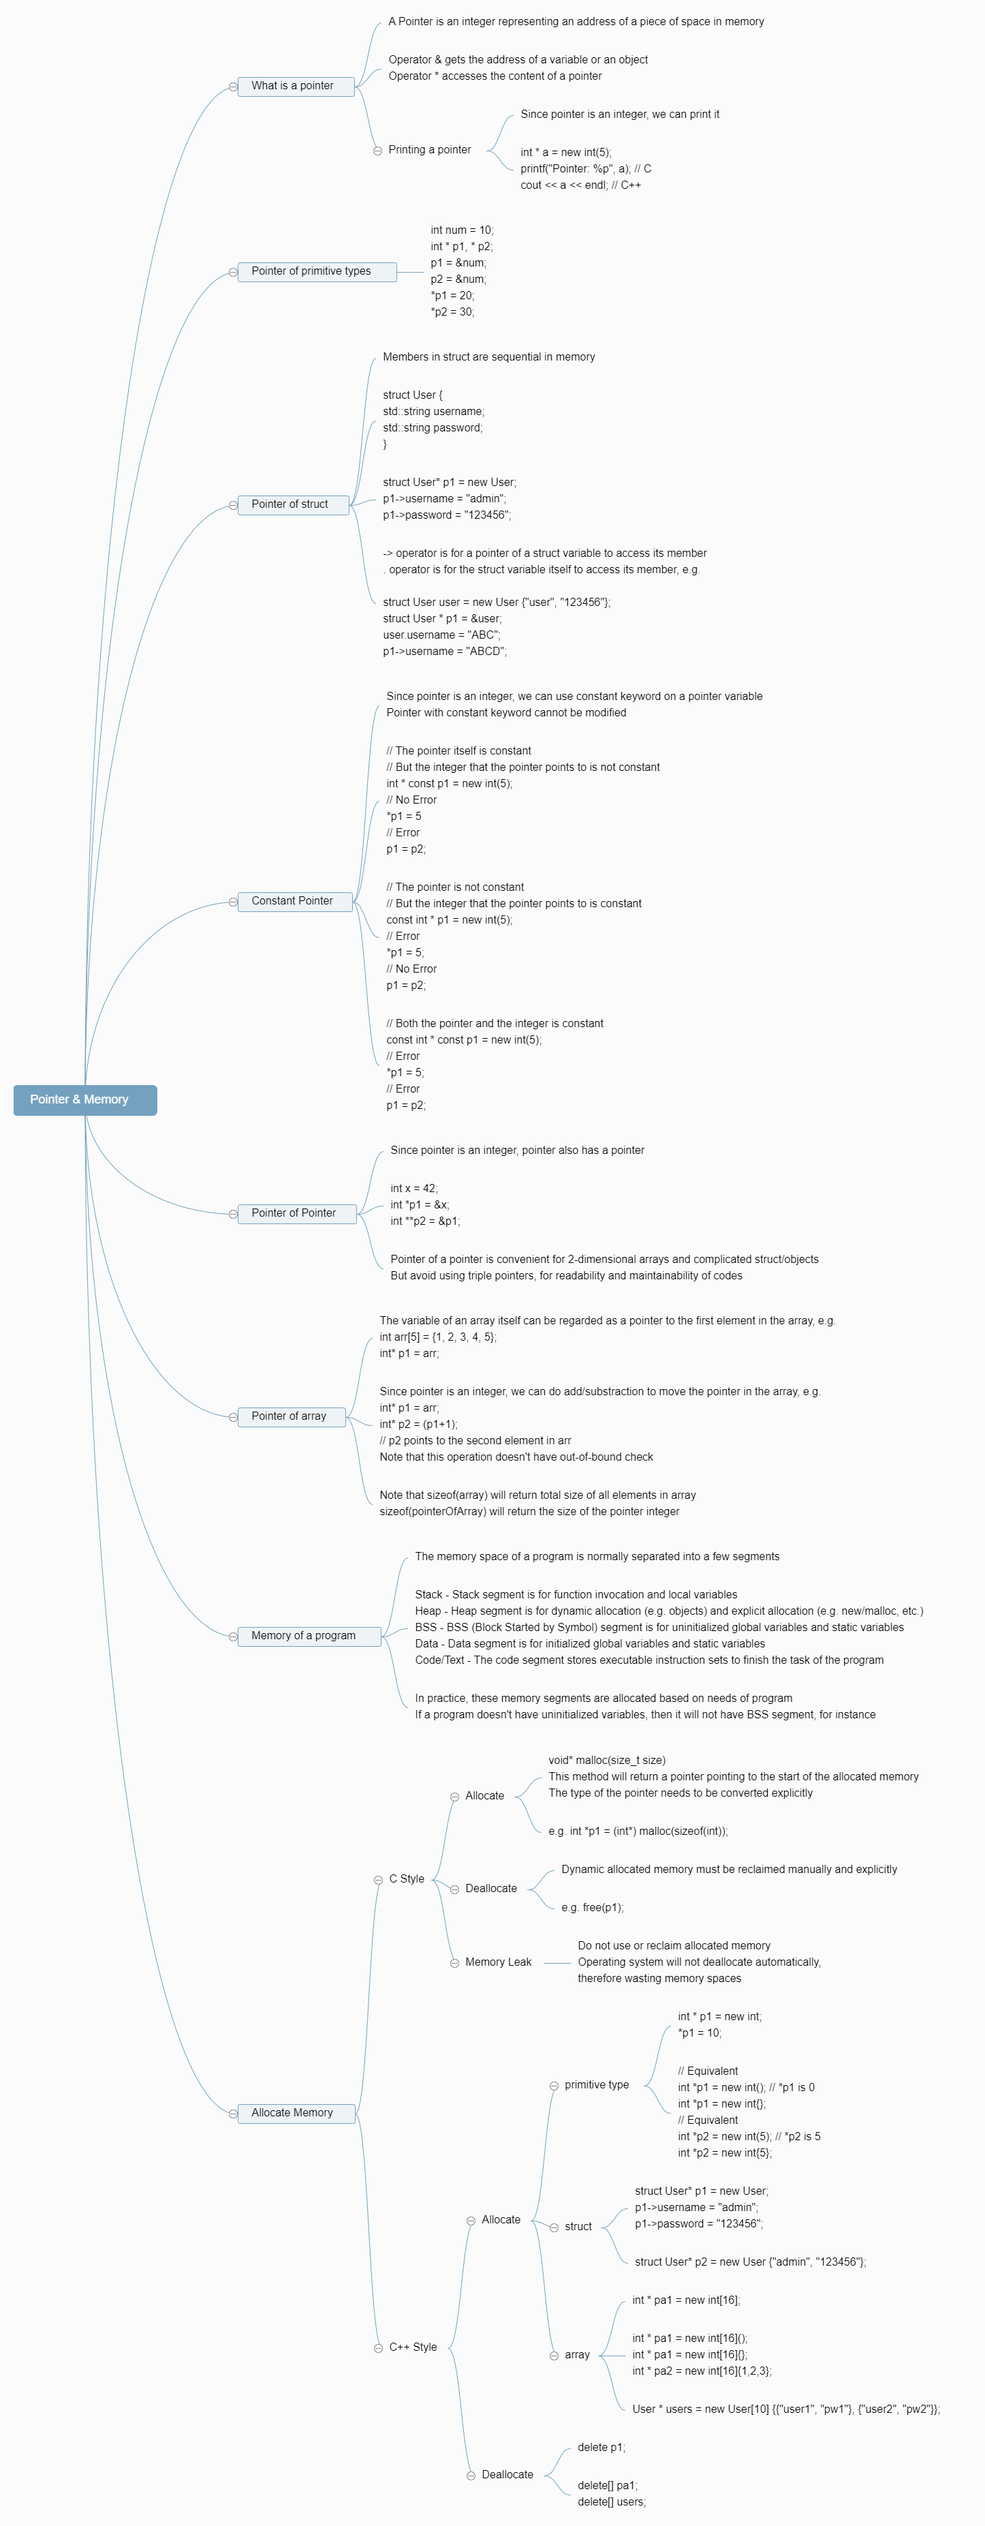
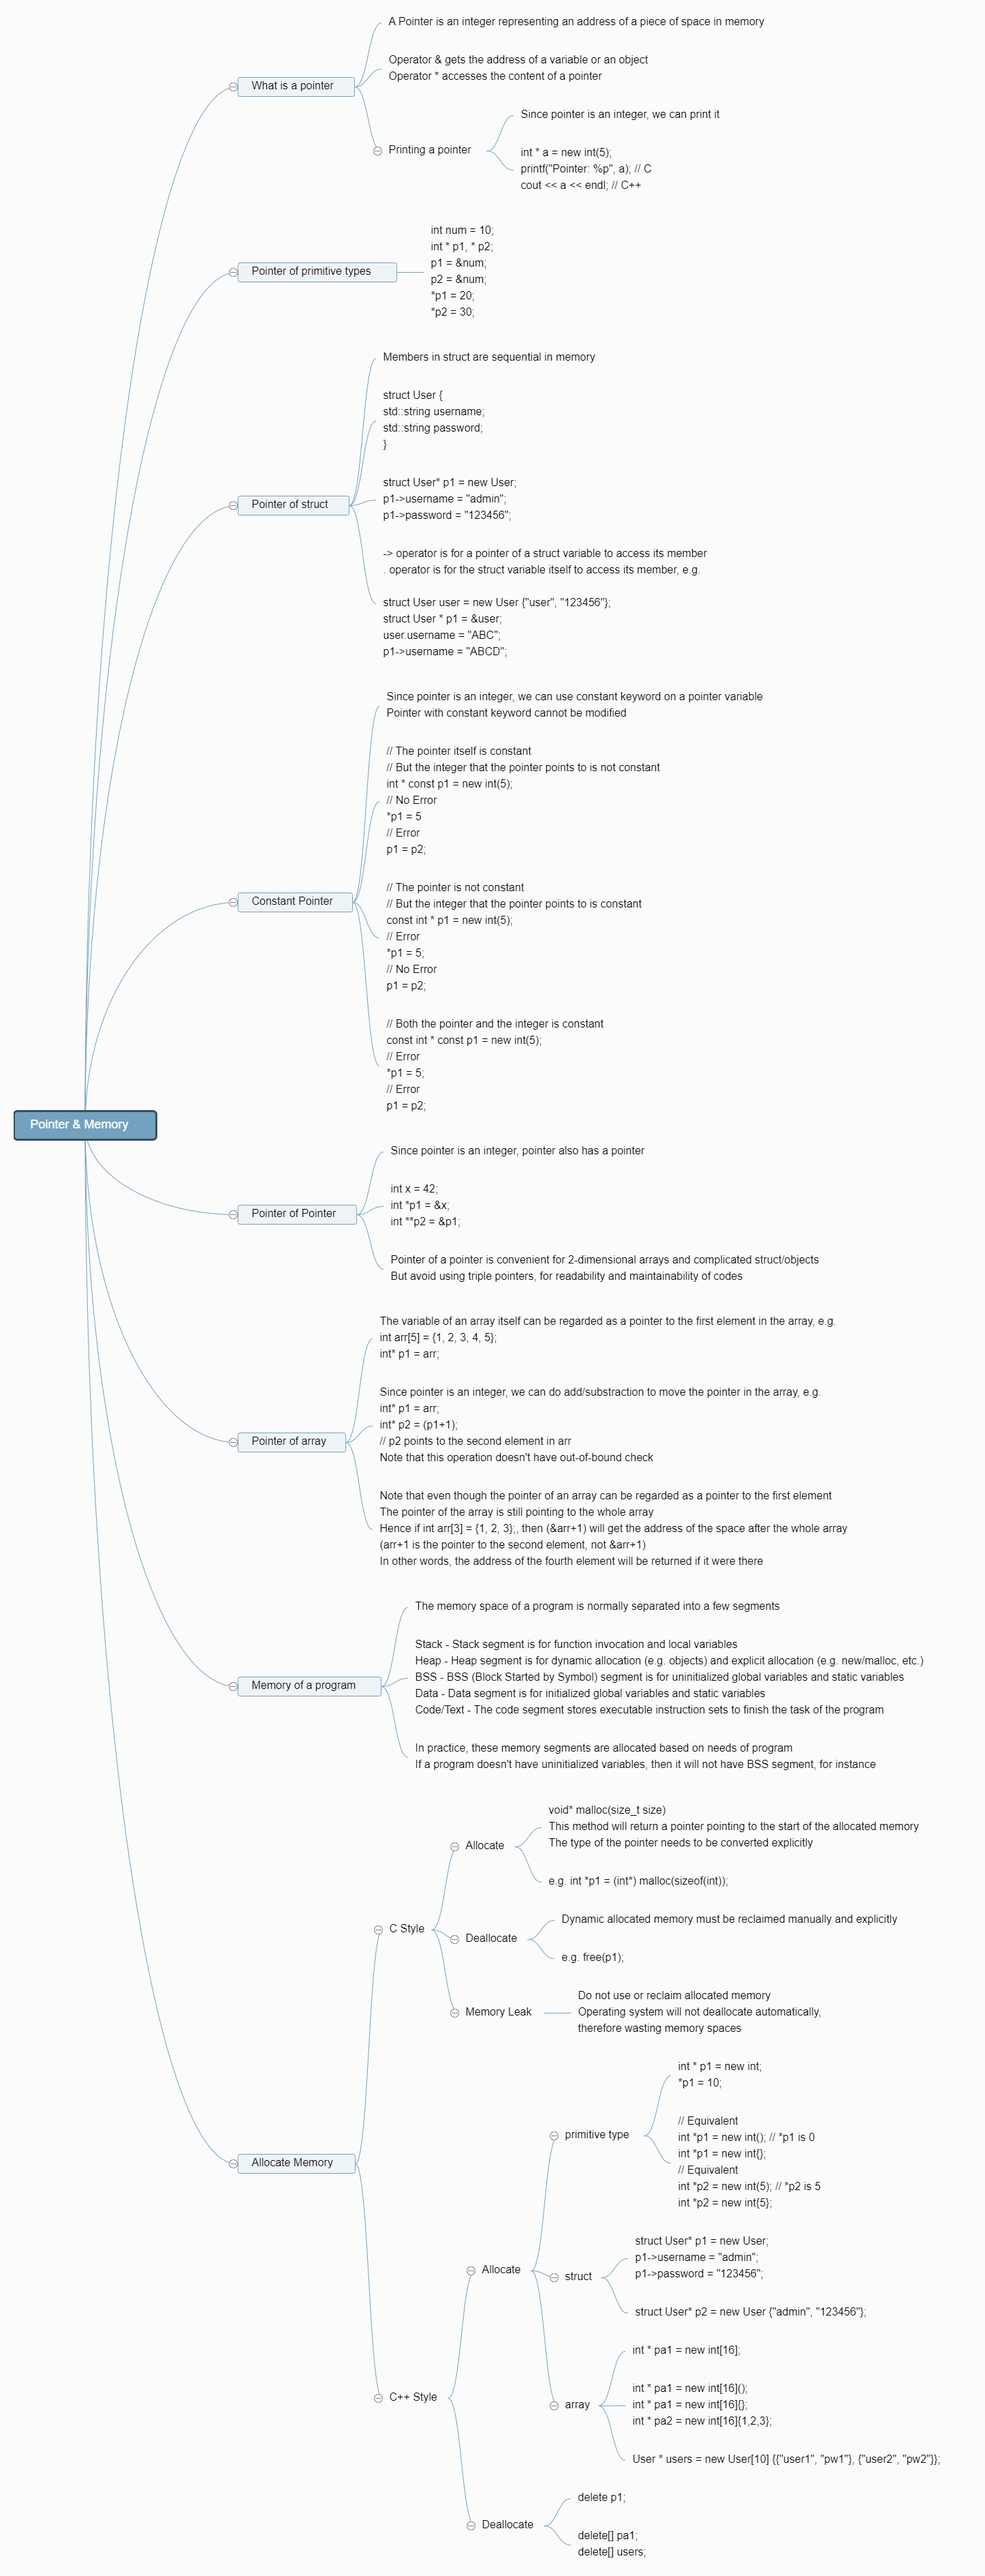
Finish content of week 5

diff --git a/Programming-Languages/C++/codes/SJSU-CS205/week5/lab5-3/main.cpp b/Programming-Languages/C++/codes/SJSU-CS205/week5/lab5-3/main.cpp
@@ -2,18 +2,43 @@
 using namespace std;
 
 int main() {
+    /**
+     * a is actually
+     * [[1, 3, 5, 7],
+     *  [9, 11, 13, 15],
+     *  [17, 19, 0, 0]]
+    */
     int a[][4]={1,3,5,7,9,11,13,15,17,19}; 
+    // Add/Substraction on pointer of 2-dim array will move on the first dimension
+    // a+1 is the pointer to the second row/subarray in a ([9, 11, 13, 15])
+    // *(a+1) gets the actual array value with the pointer
+    // And since an array itself can be used as a pointer, it can be used to assign a pointer variable
+    // Right now p points to the first element in the second subarray of a (namely 9)
     int *p=*(a+1);
+    // Now p points to the fourth element in the second subarray of a (15)
     p += 3;
+    // Here it retrieve the value that p points to (15) and do a self-increment
+    // p points to the next element in the array, which goes to the first element in the third subarray (17)
+    // 2-dimension arrays are still stored as 1-dimension array in memory
+    // So pointers can move across the second dimension
     cout << "*p++ = " << *p++ << ",*p = " << *p << endl; 
 
+    // pc is a pointer on a constant string
     const char *pc = "Welcome to programming.", *r;
     long *q = (long *)pc;
-    q++;
+    // Since long is at least 4-byte long, and char is 1-byte long
+    // So when q does self-increment, it moves 4 bytes forward
+    q++;           
+    // When it is converted back to char pointer
+    // 4 characters are skipped from the start
     r = (char *)q;
     cout << r << endl;
 
+    // m is an int, which is 4 byte long
     unsigned int m = 0x3E56AF67;
+    // short is 2 byte long
+    // So when the pointer to m is converted to short, only the smaller half is saved
+    // Since my system is little endian
     unsigned short *pm = (unsigned short *) &m;
     cout << "*pm = " << hex << *pm << endl;
     

diff --git a/Programming-Languages/C++/codes/SJSU-CS205/week5/lab5-1/main.cpp b/Programming-Languages/C++/codes/SJSU-CS205/week5/lab5-1/main.cpp
@@ -12,11 +12,18 @@ int main() {
     pf = &ff;
     pd = &dd;
 
+    // The length of pointer is determined by operating system
+    // As of now (2023), most computers are 64-bit, which means pointers on these computers have 64 bits (8 bytes)
+    // char type has 8 bits (1 byte), and its pointer has 8 bytes
     cout << "sizeof(cc) = " << sizeof(cc) << ", sizeof(pc) = " << sizeof(pc) << endl;
+    // int type has 32 bits (4 byte), and its pointer has 8 bytes
     cout << "sizeof(ii) = " << sizeof(ii) << ", sizeof(pi) = " << sizeof(pi) << endl;
+    // float type has 32 bits (4 byte), and its pointer has 8 bytes
     cout << "sizeof(ff) = " << sizeof(ff) << ", sizeof(pf) = " << sizeof(pf) << endl;
+    // double type has 64 bits (8 byte), and its pointer has 8 bytes
     cout << "sizeof(dd) = " << sizeof(dd) << ", sizeof(pd) = " << sizeof(pd) << endl;
 
+    // Pointers are hexadecimal integers, and they have addresses too (&p) 
     cout << "&pc = " << &pc << ", pc = " << static_cast <void*>(pc) << ", *pc = " << *pc << endl;
     cout << "&pi = " << &pi << ", pi = " << pi << ", *pi = " << *pi << endl;
     cout << "&pf = " << &pf << ", pf = " << pf << ", *pf = " << *pf << endl;
@@ -25,6 +32,10 @@ int main() {
     const char *msg = "C/C++ programming is fun.";
     const char *copy;
 
+    // msg is the address of the first element in the char array (C)
+    // when running copy = msg;, copy is also assigned with the address of the first element
+    // therefore, copy and msg are two integer variables with same values
+    // But since they are two separate variables, they have different addresses
     copy = msg;
     cout << "msg = " << msg << ",its address is: " << (void*)msg << ", &msg = " << &msg << endl;
     cout << "copy= " << copy << ",its address is: " << (void*)copy << ", &copy= " << &copy << endl;

diff --git a/Programming-Languages/C++/codes/SJSU-CS205/week5/lab5-2/main.cpp b/Programming-Languages/C++/codes/SJSU-CS205/week5/lab5-2/main.cpp
@@ -1,18 +1,33 @@
 #include<stdio.h>
 
-int main() { 
+int main() {
     int a[]={2,4,6,8,10},y=1,*p;
+    // p points to the second element in a array
     p=&a[1];
+    // a points to the first element in the array
     printf("a = %p\np = %p\n",a, p);
 
     for(int i = 0; i < 3; i++) 
-    y += *(p+i);
+        y += *(p+i);
+        // y = y (1) + 4 + 6 + 8 = 19
     printf("y = %d\n\n",y);
 
     int b[5]={1,2,3,4,5};
+    // ptr points to the address after the whole array (or 6th element, if it were there)
     int *ptr=(int*)(&b+1);
-    printf("b = %p\nb+4 = %p\nptr = %p\n",b,b+4,ptr);
-    printf("%d,%d\n",*(b+1),*(ptr-1));
+    // b+4 is the fifth element in the array
+    // ptr is 4 more bytes than the last element of the array
+    // meaning that ptr is pointing to the memory space after b+4
+    // Note that when we do add/substraction on pointers
+    // It adds sizeof(int), not sizeof(int*)
+    // Namely, b+1 is 4 more bytes of b, not 8 bytes (if your OS is 64-bit)
+    printf("b = %p\nb+4 = %p\nptr = %p\n", b, b+4, ptr);
+    // *(b+1) is the content of the second element, which is 2
+    // ptr-1 moves back to the 5th element, which is 5
+    // Note that b as a pointer points to the whole array
+    // Even though you can use it as the pointer to the first element, 
+    // it is not actually pointing to the first element
+    printf("%d,%d\n", *(b+1), *(ptr-1));
     
     return 0;
 }
